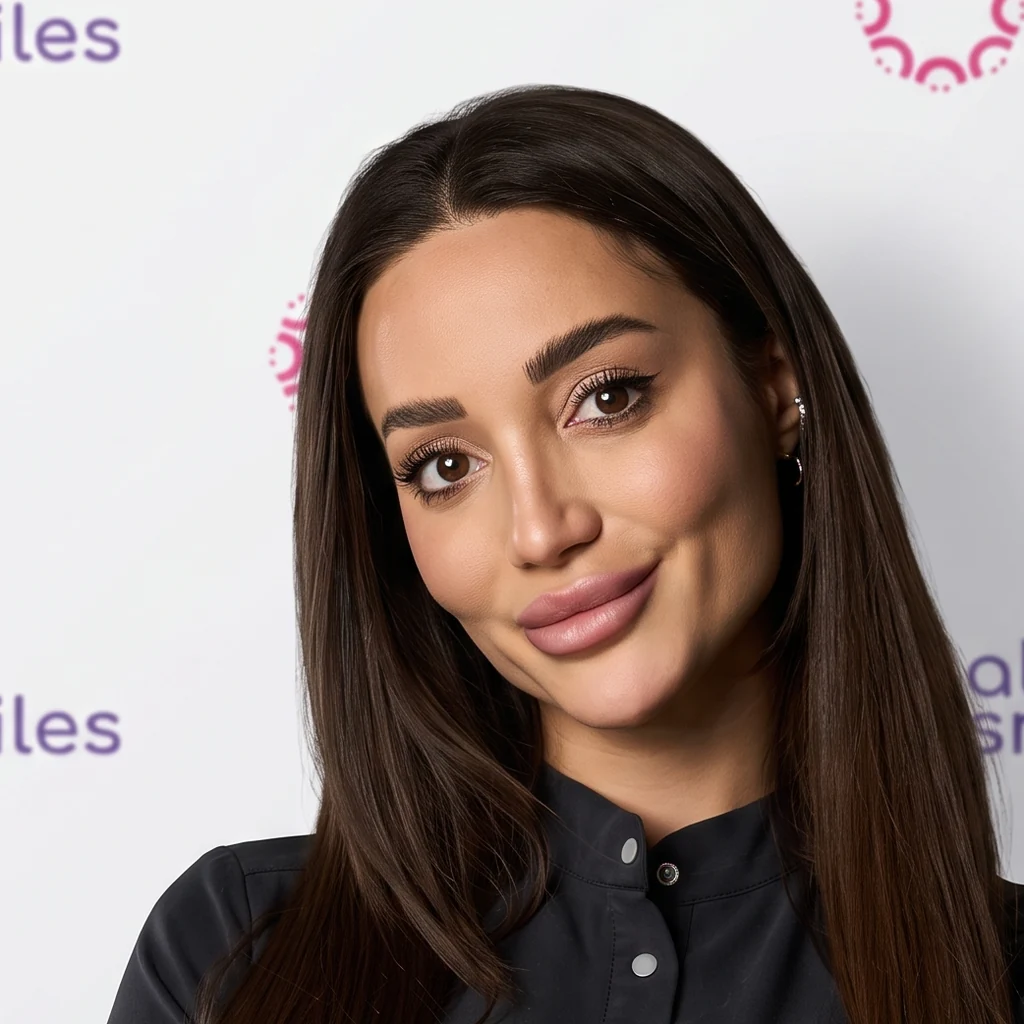
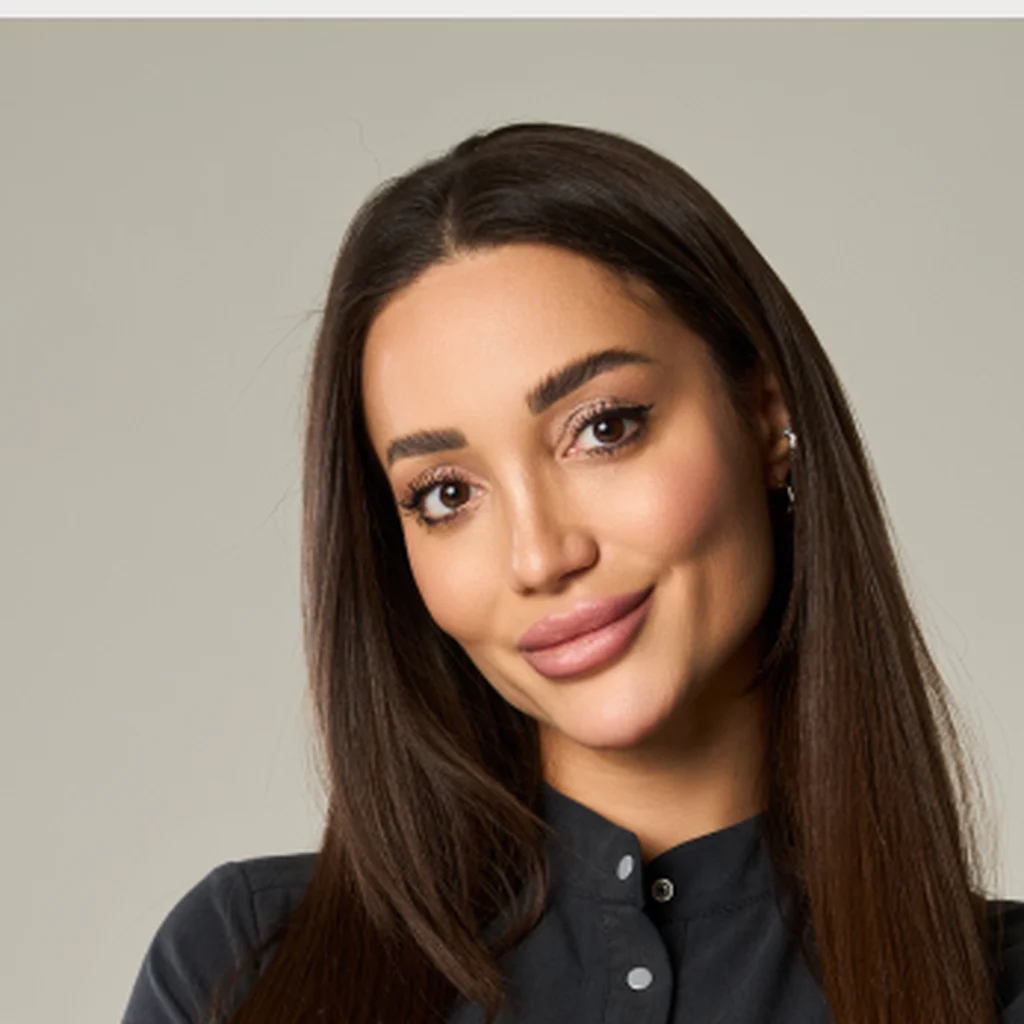
[FKLDSJ-061] Собрал слайдер врачей с фото и стажем

diff --git a/final/index.html b/final/index.html
@@ -274,10 +274,19 @@
         </ul>
     </div>
 
-    <div class="closing-grid closing-docs">
-      <article class="closing-doc"><div class="closing-photo"><img src="../assets/doctors/akchurin.webp" alt="Акчурин Руслан Дамирович" loading="lazy"></div><h3>Акчурин Руслан Дамирович</h3><small>Стоматолог‑хирург · стаж 18 лет</small><p>Имплантация, удаление зубов, сложные случаи.</p></article>
-      <article class="closing-doc"><div class="closing-photo"><img src="../assets/doctors/tsahaev.webp" alt="Цахаев Марат Халилович" loading="lazy"></div><h3>Цахаев Марат Халилович</h3><small>Стоматолог‑хирург‑имплантолог · стаж 11 лет</small><p>Имплантация All‑on‑4, сложные случаи. Окончил МГМСУ.</p></article>
-      <article class="closing-doc"><div class="closing-photo"><img src="../assets/doctors/dzhanumova.webp" alt="Джанумова Валерия Александровна" loading="lazy"></div><h3>Джанумова Валерия Александровна</h3><small>Стоматолог‑ортопед · стаж 9 лет</small><p>Протезирование, коронки, реставрация и лечение зубов.</p></article>
+    <div class="closing-slider" data-doc-slider>
+      <button class="closing-nav closing-nav--prev" type="button" aria-label="Предыдущие врачи" disabled><svg viewBox="0 0 24 24" aria-hidden="true"><path d="M15 5l-7 7 7 7" fill="none" stroke="currentColor" stroke-width="2.2" stroke-linecap="round" stroke-linejoin="round"/></svg></button>
+      <div class="closing-track">
+        <article class="closing-doc"><div class="closing-photo"><img src="../assets/doctors/tsahaev.webp" alt="Цахаев Марат Халилович" loading="lazy"></div><h3>Цахаев Марат Халилович</h3><small>Стоматолог‑хирург‑имплантолог · стаж 11 лет</small><p>Имплантация All‑on‑4, хирургический этап, сложные случаи.</p></article>
+        <article class="closing-doc"><div class="closing-photo"><img src="../assets/doctors/arslanbekov.webp" alt="Арсланбеков Айдемир Бийсолтанович" loading="lazy"></div><h3>Арсланбеков Айдемир Бийсолтанович</h3><small>Стоматолог‑хирург‑имплантолог · стаж 6 лет</small><p>Имплантация зубов, хирургический этап All‑on‑4.</p></article>
+        <article class="closing-doc"><div class="closing-photo"><img src="../assets/doctors/bayzurkaev.webp" alt="Байзуркаев Абдула Шамсутдинович" loading="lazy"></div><h3>Байзуркаев Абдула Шамсутдинович</h3><small>Стоматолог‑ортопед · стаж 12 лет</small><p>Протезирование на имплантах, несъёмные конструкции.</p></article>
+        <article class="closing-doc"><div class="closing-photo"><img src="../assets/doctors/kulikov.webp" alt="Куликов Алексей Андреевич" loading="lazy"></div><h3>Куликов Алексей Андреевич</h3><small>Стоматолог‑ортопед · стаж 17 лет</small><p>Протезирование, коронки и несъёмные конструкции.</p></article>
+        <article class="closing-doc"><div class="closing-photo"><img src="../assets/doctors/dzhanumova.webp" alt="Джанумова Валерия Александровна" loading="lazy"></div><h3>Джанумова Валерия Александровна</h3><small>Стоматолог‑ортопед · стаж 9 лет</small><p>Протезирование, коронки, реставрация и лечение зубов.</p></article>
+        <article class="closing-doc"><div class="closing-photo"><img src="../assets/doctors/dzhalilov.webp" alt="Джалилов Ислам Вайзуллаевич" loading="lazy"></div><h3>Джалилов Ислам Вайзуллаевич</h3><small>Стоматолог‑ортопед · стаж 7 лет</small><p>Протезирование на имплантах, коронки и виниры.</p></article>
+        <article class="closing-doc"><div class="closing-photo"><img src="../assets/doctors/muradov.webp" alt="Мурадов Эмин Акифович" loading="lazy"></div><h3>Мурадов Эмин Акифович</h3><small>Стоматолог‑терапевт · стаж 6 лет</small><p>Лечение зубов и подготовка к имплантации.</p></article>
+        <article class="closing-doc"><div class="closing-photo"><img src="../assets/doctors/mahmudova.webp" alt="Махмудова Иман Дзаиндиевна" loading="lazy"></div><h3>Махмудова Иман Дзаиндиевна</h3><small>Стоматолог‑терапевт · стаж 4 года</small><p>Терапия, гигиена и подготовка к протезированию.</p></article>
+      </div>
+      <button class="closing-nav closing-nav--next" type="button" aria-label="Следующие врачи"><svg viewBox="0 0 24 24" aria-hidden="true"><path d="M9 5l7 7-7 7" fill="none" stroke="currentColor" stroke-width="2.2" stroke-linecap="round" stroke-linejoin="round"/></svg></button>
     </div>
   </div>
 </section>

diff --git a/final/mobile.js b/final/mobile.js
@@ -79,9 +79,14 @@
     ] },
     { id: 'doctors', title: 'Врачи', cover: A + 'doctors/berlov.webp', fit: true, doctors: true, slides: [
       { img: A + 'doctors/berlov.webp', cap: 'Берлов Антон Владимирович', sub: 'Главный врач сети, д. м. н., профессор · стаж более 30 лет' },
-      { img: A + 'doctors/akchurin.webp', cap: 'Акчурин Руслан Дамирович', sub: 'Стоматолог-хирург · стаж 18 лет' },
       { img: A + 'doctors/tsahaev.webp', cap: 'Цахаев Марат Халилович', sub: 'Стоматолог-хирург-имплантолог · стаж 11 лет' },
+      { img: A + 'doctors/arslanbekov.webp', cap: 'Арсланбеков Айдемир Бийсолтанович', sub: 'Стоматолог-хирург-имплантолог · стаж 6 лет' },
+      { img: A + 'doctors/bayzurkaev.webp', cap: 'Байзуркаев Абдула Шамсутдинович', sub: 'Стоматолог-ортопед · стаж 12 лет' },
+      { img: A + 'doctors/kulikov.webp', cap: 'Куликов Алексей Андреевич', sub: 'Стоматолог-ортопед · стаж 17 лет' },
       { img: A + 'doctors/dzhanumova.webp', cap: 'Джанумова Валерия Александровна', sub: 'Стоматолог-ортопед · стаж 9 лет' },
+      { img: A + 'doctors/dzhalilov.webp', cap: 'Джалилов Ислам Вайзуллаевич', sub: 'Стоматолог-ортопед · стаж 7 лет' },
+      { img: A + 'doctors/muradov.webp', cap: 'Мурадов Эмин Акифович', sub: 'Стоматолог-терапевт · стаж 6 лет' },
+      { img: A + 'doctors/mahmudova.webp', cap: 'Махмудова Иман Дзаиндиевна', sub: 'Стоматолог-терапевт · стаж 4 года' },
     ] },
     { id: 'clinic', title: 'Клиника', cover: A + 'stories/clinic-entrance.webp', slides: [
       { img: A + 'stories/clinic-entrance.webp', cap: 'Вход с улицы, 1 этаж', sub: 'Ленинградский проспект, 36, стр. 40' },

diff --git a/final/sections.css b/final/sections.css
@@ -787,3 +787,17 @@ main .care-contract-copy h3{font-size:clamp(22px,2vw,28px);margin-bottom:8px}
 /* блок врачей: теперь три карточки в ряд */
 .closing-docs{grid-template-columns:repeat(3,minmax(0,1fr))}
 @media(max-width:760px){.closing-docs{grid-template-columns:1fr}}
+
+/* слайдер врачей */
+.closing-slider{position:relative;margin-top:22px}
+.closing-track{display:flex;gap:16px;overflow-x:auto;scroll-snap-type:x mandatory;scroll-behavior:smooth;padding:4px 2px 12px;-webkit-overflow-scrolling:touch;scrollbar-width:none}
+.closing-track::-webkit-scrollbar{display:none}
+.closing-track .closing-doc{flex:0 0 calc((100% - 48px)/4);scroll-snap-align:start;margin:0}
+.closing-nav{position:absolute;top:38%;transform:translateY(-50%);z-index:4;width:48px;height:48px;border-radius:50%;border:1px solid var(--lav-10);background:#fff;color:var(--ink);display:grid;place-items:center;cursor:pointer;box-shadow:0 8px 24px #5e539124;transition:opacity .2s,background .2s}
+.closing-nav svg{width:22px;height:22px}
+.closing-nav:hover:not(:disabled){background:var(--paper)}
+.closing-nav--prev{left:-16px}
+.closing-nav--next{right:-16px}
+.closing-nav:disabled{opacity:0;pointer-events:none}
+@media(max-width:1000px){.closing-track .closing-doc{flex-basis:calc((100% - 32px)/3)}}
+@media(max-width:760px){.closing-track{gap:12px;scroll-padding-left:12px}.closing-track .closing-doc{flex-basis:72%}.closing-nav{display:none}}

diff --git a/final/script.js b/final/script.js
@@ -275,4 +275,27 @@
       if (n !== undefined) { e.preventDefault(); activate(tabs[n]); tabs[n].focus(); }
     });
   });
+
+  /* слайдер врачей */
+  const docSlider = document.querySelector('[data-doc-slider]');
+  if (docSlider) {
+    const track = docSlider.querySelector('.closing-track');
+    const prev = docSlider.querySelector('.closing-nav--prev');
+    const next = docSlider.querySelector('.closing-nav--next');
+    const step = () => {
+      const card = track.querySelector('.closing-doc');
+      const gap = parseFloat(getComputedStyle(track).columnGap) || 16;
+      return card ? card.offsetWidth + gap : track.clientWidth;
+    };
+    const sync = () => {
+      const max = track.scrollWidth - track.clientWidth - 2;
+      prev.disabled = track.scrollLeft <= 2;
+      next.disabled = track.scrollLeft >= max;
+    };
+    prev.addEventListener('click', () => track.scrollBy({ left: -step() * 2, behavior: 'smooth' }));
+    next.addEventListener('click', () => track.scrollBy({ left: step() * 2, behavior: 'smooth' }));
+    track.addEventListener('scroll', sync, { passive: true });
+    window.addEventListener('resize', sync);
+    sync();
+  }
 })();
